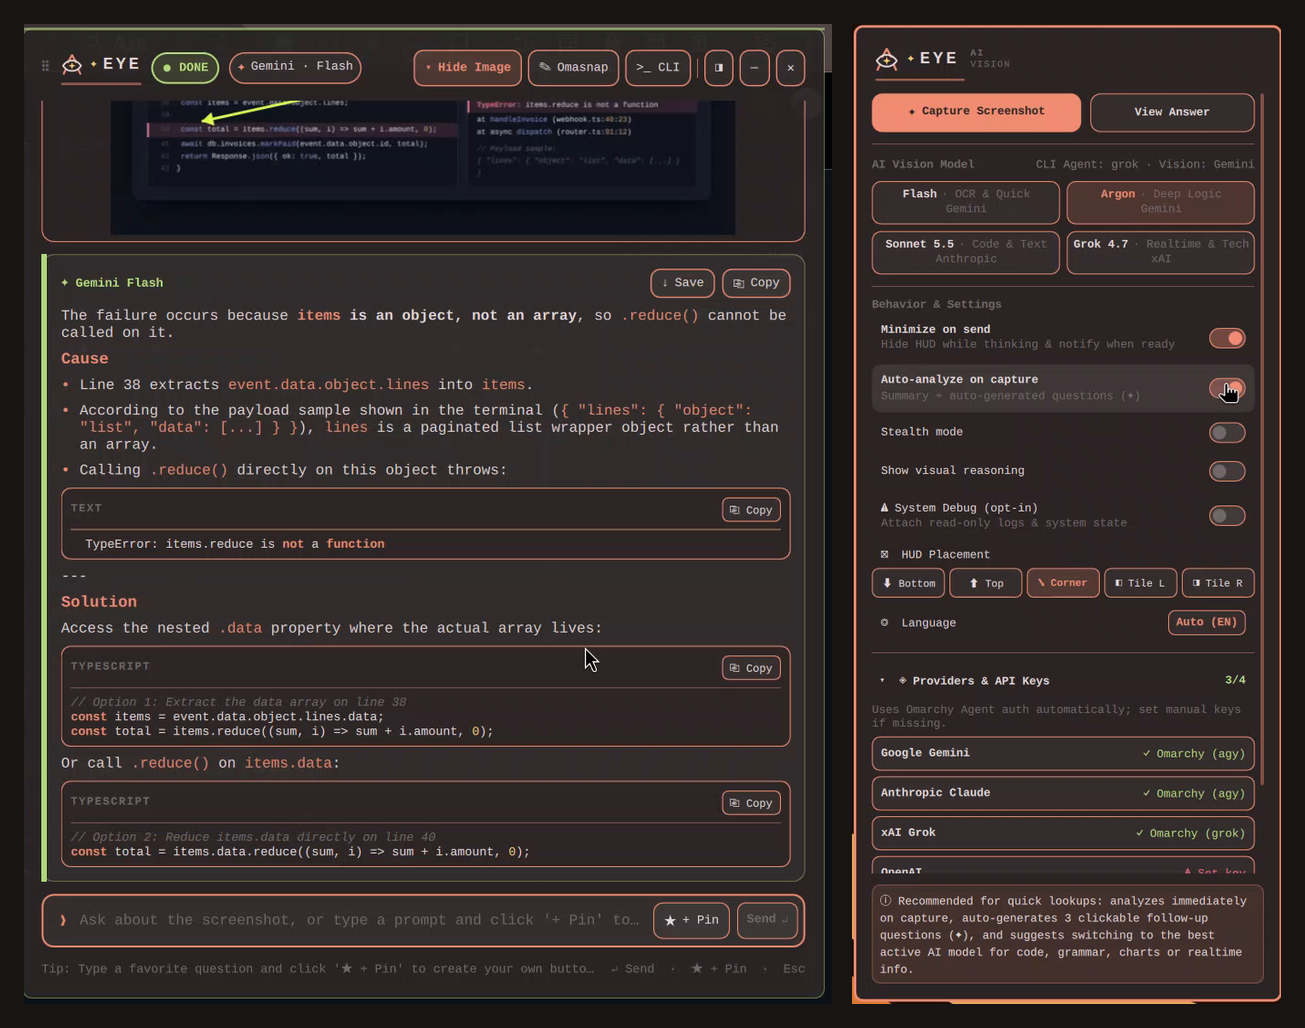
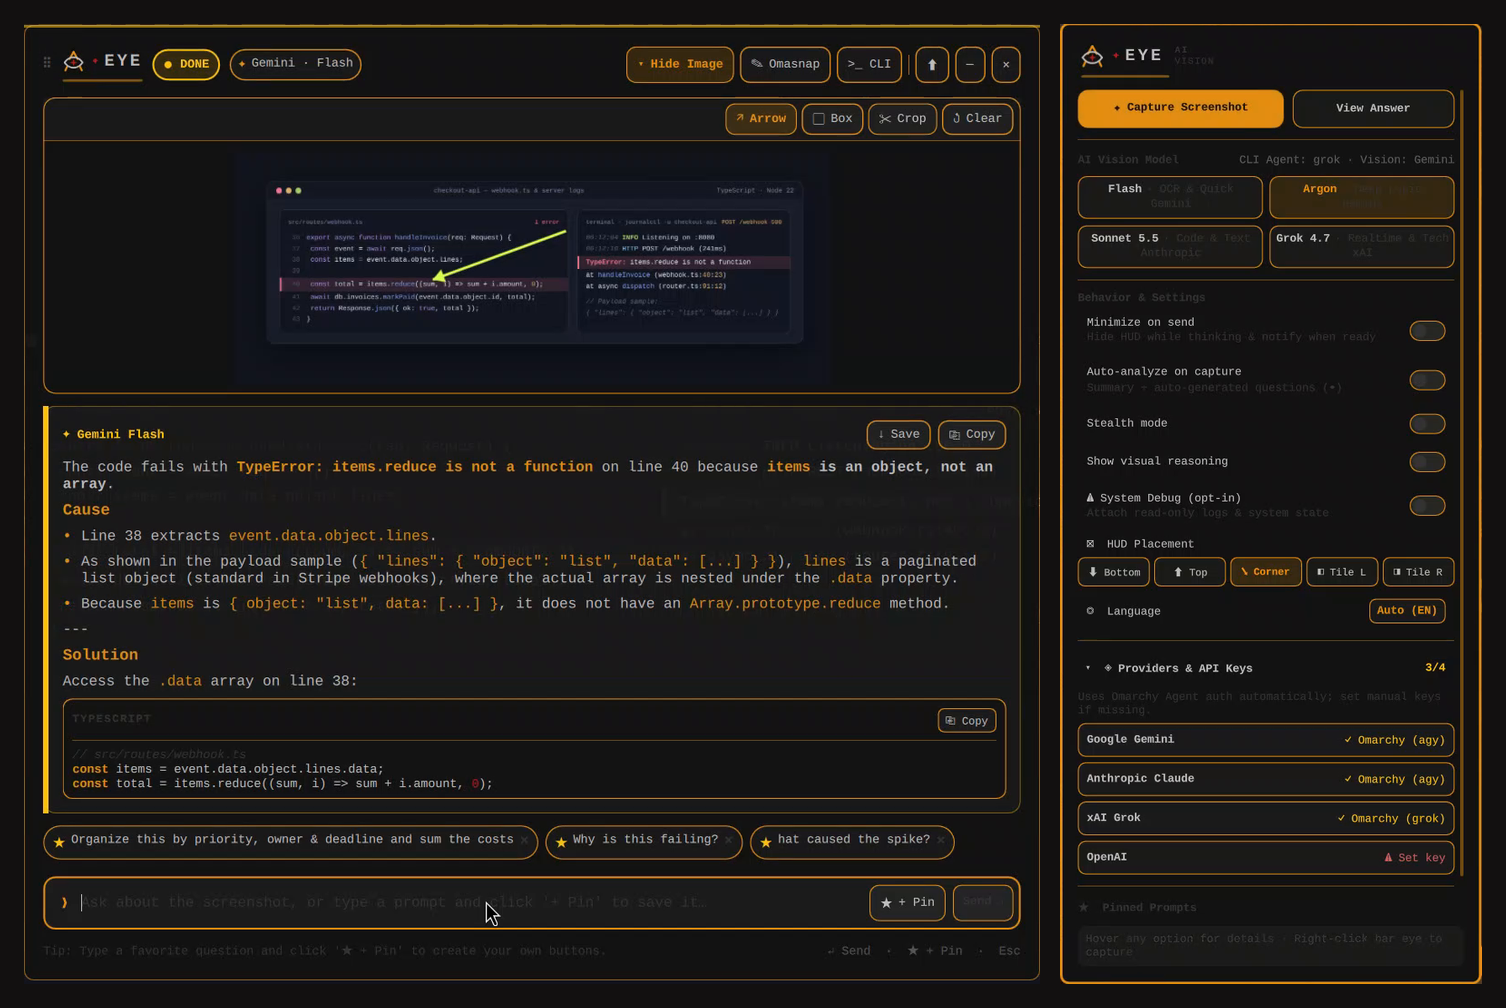
Showcase overhaul: gold-theme hero, arrow debug, organize+PDF export, Tile R SysDebug & h4-h6 markdown

diff --git a/Panel.qml b/Panel.qml
@@ -863,7 +863,7 @@ Item {
         flushPara()
         continue
       }
-      var hm = trimmed.match(/^(#{1,3})\s+(.+)$/)
+      var hm = trimmed.match(/^(#{1,6})\s+(.+)$/)
       if (hm) {
         flushPara()
         blocks.push({ kind: "heading", level: hm[1].length, html: formatInlineHtml(hm[2]), raw: hm[2], lang: "", marker: "" })

diff --git a/README.md b/README.md
@@ -77,50 +77,60 @@ omarchy restart shell
 
 ### 1. Point, Annotate & Fix
 
-Draw an arrow directly onto the captured region so the model knows exactly which line or UI element you mean. Answers render with structured Markdown, live theme-native syntax highlighting, per-block **Copy** buttons, and one-click file export (**`↓ Save`**). The active Settings panel is shown beside the HUD so every toggle state is transparent.
+Draw an inline arrow (`↗`) directly onto the captured region so the model knows which line or UI element you mean. Answers stream live with structured Markdown, theme-native syntax highlighting, per-block **Copy** buttons, and one-click file export (**`↓ Save`**).
 
 *Active settings: `Minimize on send: OFF` · `Auto-analyze: OFF` · `Model: Gemini Flash`*
 
-![Point and debug with inline arrow and syntax-highlighted fix](docs/media/01-arrow-debug.gif)
+![Point and debug with inline arrow and syntax-highlighted TypeScript fix](docs/media/01-arrow-debug.gif)
 
 ---
 
-### 2. Background Flow (Stay in Your Editor)
+### 2. Organize Raw Data & Export to `.pdf` (`↓ Save`)
+
+Capture chaotic, unsorted notes, logs, or tables, let Aeye organize them cleanly by priority, owner, deadline, and totals — then click **`↓ Save`** to export directly to a multi-page **`.pdf`** (zero external dependencies), `.md`, `.txt`, `.html`, `.json`, or any custom path.
+
+*Active settings: `All optional toggles OFF` · `Placement: Top` · `Export: .pdf`*
+
+![Organize unsorted notes and export directly to a multi-page PDF](docs/media/02-organize-save-pdf.gif)
+
+---
+
+### 3. Hyprland Tiling Sidebar (`Tile R`), Auto-Analyze & Opt-in System Debug
+
+Switch HUD placement to **Tile L** or **Tile R** so Hyprland tiles your windows right beside Aeye with zero overlap. Combine **Auto-analyze** (instant summary, 3 clickable `✦` follow-up prompts, and smart model recommendations) with opt-in **`⚠ System Debug`** to correlate on-screen errors against real read-only system state (`journalctl`, failed `systemd` units, `hyprctl`, RAM/disk) — plus **`>_ Fix in CLI`** handoff to `omarchy-agent`.
+
+*Active settings: `Auto-analyze: ON` · `System Debug: ON (read-only)` · `Placement: Tile R`*
+
+![Hyprland tiled sidebar with opt-in System Debug diagnostics and AI follow-ups](docs/media/03-sysdebug-tile.gif)
+
+---
+
+### 4. Background Flow (Stay in Your Editor)
 
 With **Minimize on send** enabled, pressing <kbd>Enter</kbd> immediately tucks the HUD away so you never stare at a spinner. The top-bar spark pupil animates while the model works, then delivers a clickable **Answer Ready** toast to reopen the answer.
 
 *Active settings: `Minimize on send: ON` · `Auto-analyze: OFF` · `Model: Gemini Argon`*
 
-![Background analysis with top-bar animation and clickable notification](docs/media/02-background-flow.gif)
+![Background analysis with top-bar animation and clickable notification](docs/media/04-background-flow.gif)
 
 ---
 
-### 3. Auto-Analyze & Live Streaming
-
-Turn on **Auto-analyze on capture** to start inspecting every screenshot immediately — with live scanning progress, structured Markdown summaries, 3 clickable follow-up questions (`✦`), and automatic recommendations when another active model is a better fit for code, prose, charts, or realtime topics. Combine with **Show visual reasoning** and **Tile L / Tile R** for a native Hyprland tiled sidebar.
-
-*Active settings: `Auto-analyze: ON` · `Minimize on send: ON` · `Model: Gemini Argon`*
-
-![Auto-analyze with live scanning progress and structured summary](docs/media/03-auto-analyze.gif)
-
----
-
-### 4. Privacy Redaction in Omasnap
+### 5. Privacy Redaction in Omasnap
 
 Need to pixelate tokens, emails, or sensitive code before sending a screenshot to an AI model? Click **Omasnap** (`✎`), redact sensitive regions, and save — Aeye automatically reloads the redacted image before anything leaves your machine.
 
 *Active settings: `Auto-analyze: OFF` (inspect & redact before sending)*
 
-![Redacting sensitive information in Omasnap before sending](docs/media/04-omasnap-redact.gif)
+![Redacting sensitive information in Omasnap before sending](docs/media/05-omasnap-redact.gif)
 
 ---
 
-### 5. Live Omarchy Theme Integration
+### 6. Live Omarchy Theme Integration
 
 Every surface, border, button, status accent, tooltip, wordmark, and syntax token pulls live from your active Omarchy theme (`omarchy theme set ...`) — across dark, warm, emerald, synthwave, and crisp light themes with zero hardcoded UI chrome colors.
 
 <p align="center">
-  <img src="docs/media/05-live-theme.gif" width="440" alt="Aeye top-bar settings hub adapting live across 10 Omarchy themes" />
+  <img src="docs/media/06-live-theme.gif" width="440" alt="Aeye top-bar settings hub adapting live across 10 Omarchy themes" />
 </p>
 
 ---
